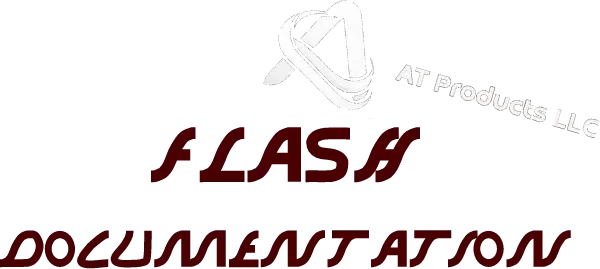
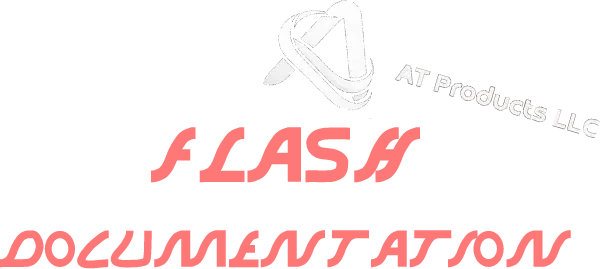
Update Flash and MDickie hero images
Use the standard hero images by default and switch to light variants in dark mode. Adjust hero image sizing and spacing.

Changed region(s): [[0.0, 0.8327, 0.96, 1.0], [0.33, 0.4461, 0.72, 0.684], [0.24, 0.4758, 0.33, 0.684]]

diff --git a/src/styles/other.css b/src/styles/other.css
@@ -150,11 +150,11 @@ body.dialog-open {
 }
 
 [data-bs-theme=dark] .mdickie-img {
-  content: url(/media/images/mdickiepro.webp) !important;
+  content: url(/media/images/mdickiepro-light.webp) !important;
 }
 
 [data-bs-theme=dark] .flash-img {
-  content: url(/media/images/flashdoc.webp) !important;
+  content: url(/media/images/flashdoc-light.webp) !important;
 }
 
 .accordion-body p:last-child {
